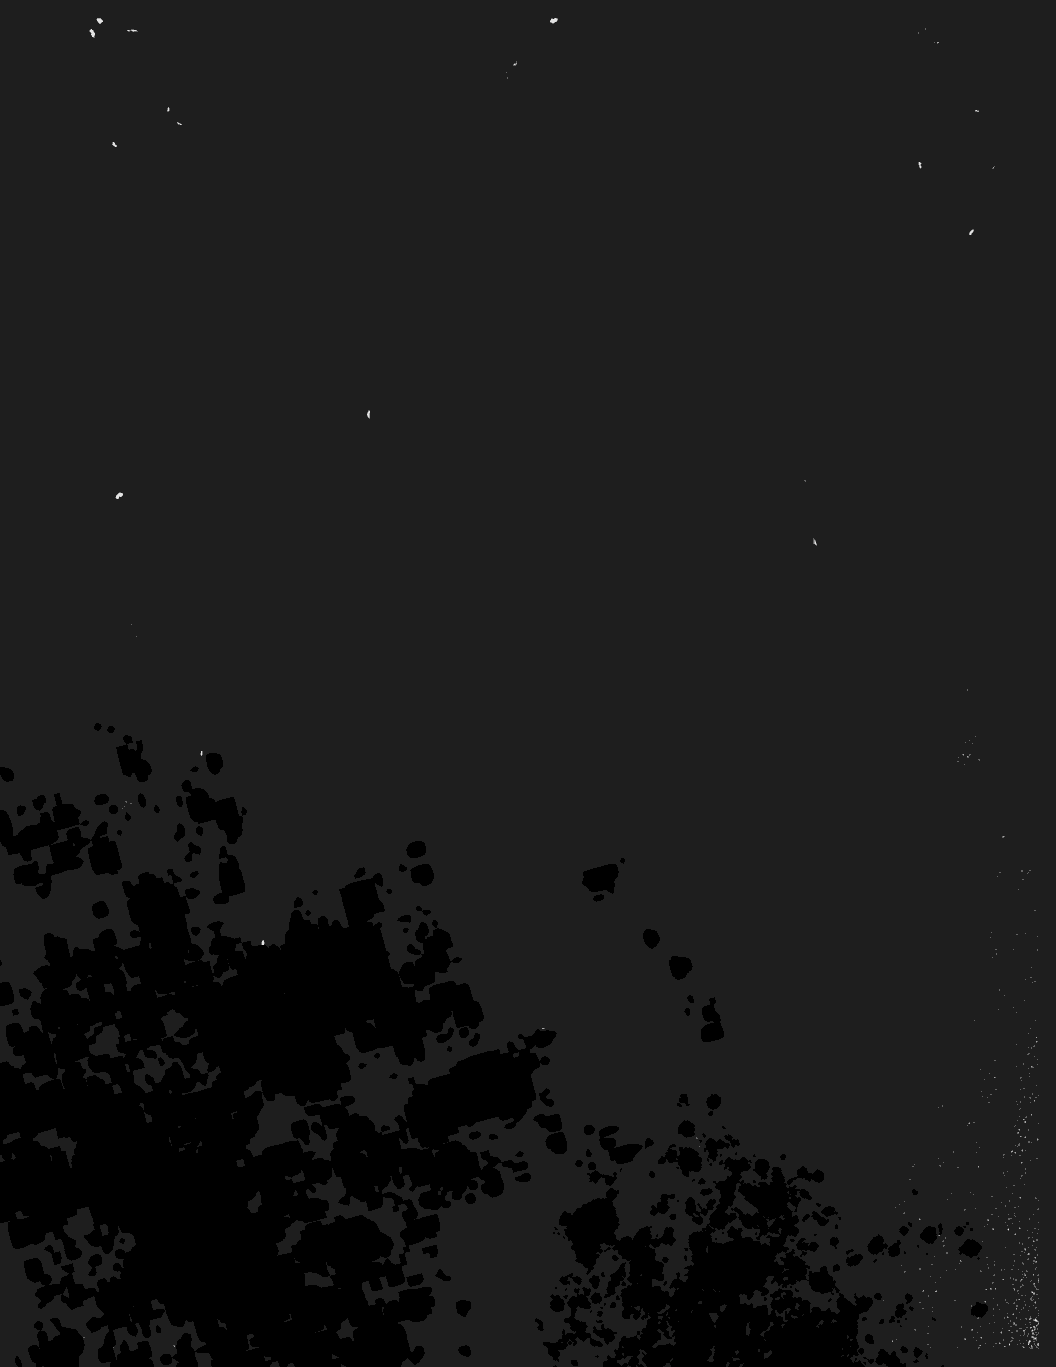
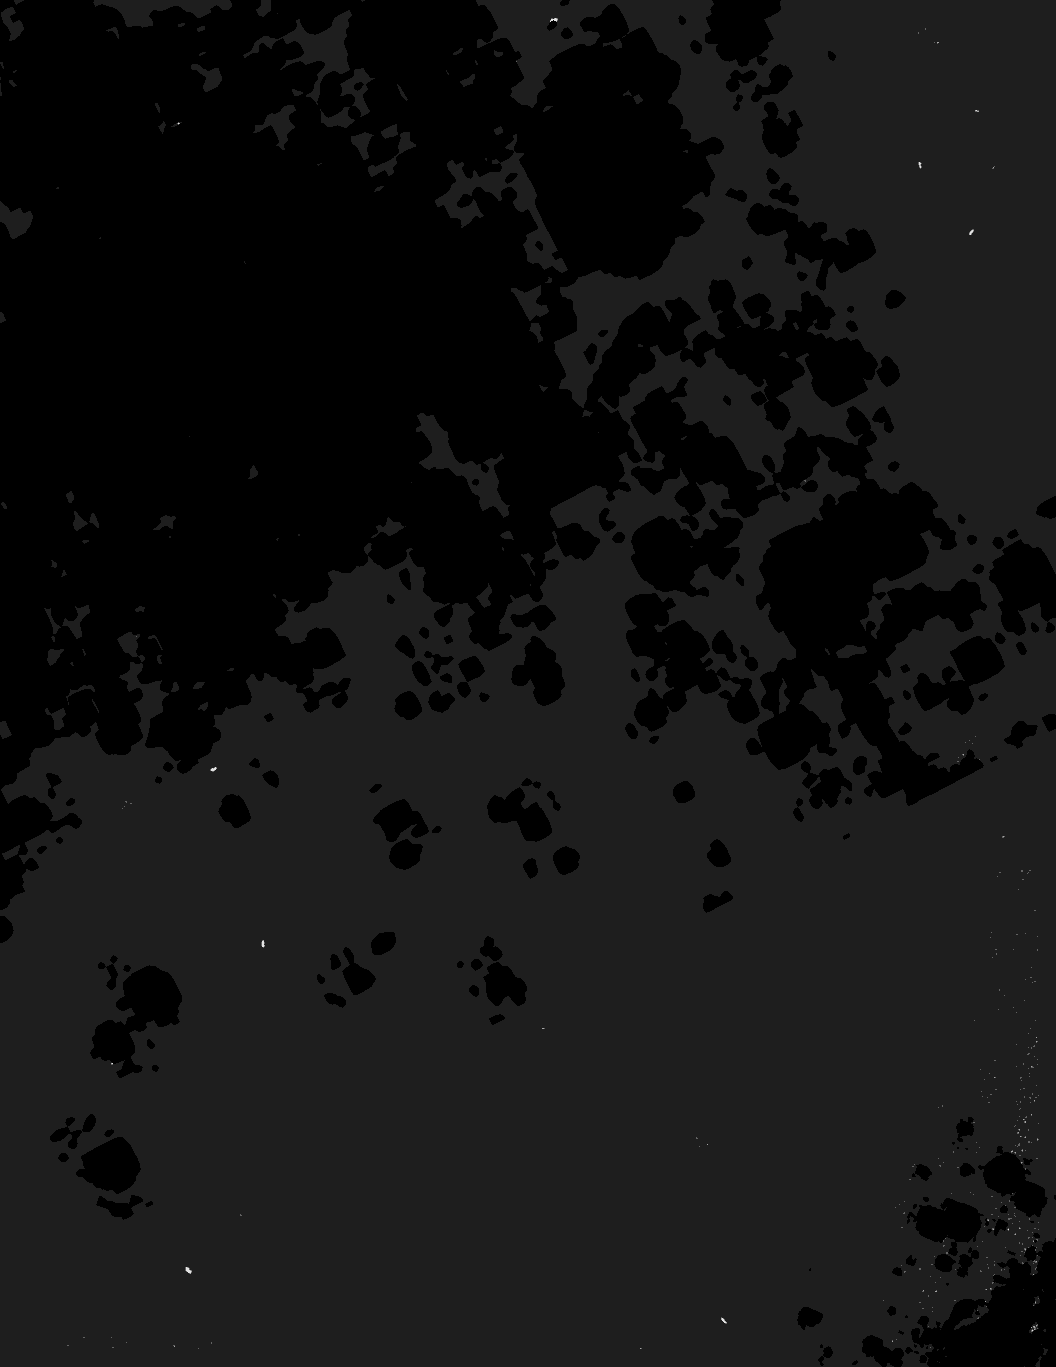
Dandy's Floors manuals fix

diff --git a/HTML/Dandy's Floors.html b/HTML/Dandy's Floors.html
@@ -33,7 +33,7 @@
     }
     
     .page-bg-04 {
-        background-image: url("img/Dandy's Floors/pages/page-bg-noise-04d2.png");
+        background-image: url("img/Dandy's Floors/pages/page-bg-noise-04d.png");
     }
     
     .page-bg-05 {
@@ -52,7 +52,7 @@
     }
     
     .dark .page-bg-04 {
-        background-image: url("img/Dandy's Floors/pages/page-bg-noise-04d2-dark.png");
+        background-image: url("img/Dandy's Floors/pages/page-bg-noise-04d-dark.png");
     }
     
     .dark .page-bg-05 {
@@ -162,7 +162,7 @@
                 <span class="page-header-doc-title">Keep Talking and Nobody Explodes Mod</span>
                 <span class="page-header-section-title">Dandy's Floors</span>
             </div>
-            <div class="page-content">
+            <div class="page-content" style="font-size:0.96em">
                 <h3>Obtaining pseudo-random information:</h3>
                 <p>It is highly recommended to mark which bits are used/unused. Later, this manual will ask to “request N bits”. Request of N bits returns first N unused bits from final seed and marks them as used. All tables are index-0.</p>
                 <ol>

diff --git a/HTML/Dandy's Floors translated (Русский — Этажи Дэнди) (rand06).html b/HTML/Dandy's Floors translated (Русский — Этажи Дэнди) (rand06).html
@@ -34,7 +34,7 @@
     }
     
     .page-bg-04 {
-        background-image: url("img/Dandy's Floors/pages/page-bg-noise-04d2.png");
+        background-image: url("img/Dandy's Floors/pages/page-bg-noise-04d.png");
     }
     
     .page-bg-05 {
@@ -53,7 +53,7 @@
     }
     
     .dark .page-bg-04 {
-        background-image: url("img/Dandy's Floors/pages/page-bg-noise-04d2-dark.png");
+        background-image: url("img/Dandy's Floors/pages/page-bg-noise-04d-dark.png");
     }
     
     .dark .page-bg-05 {
